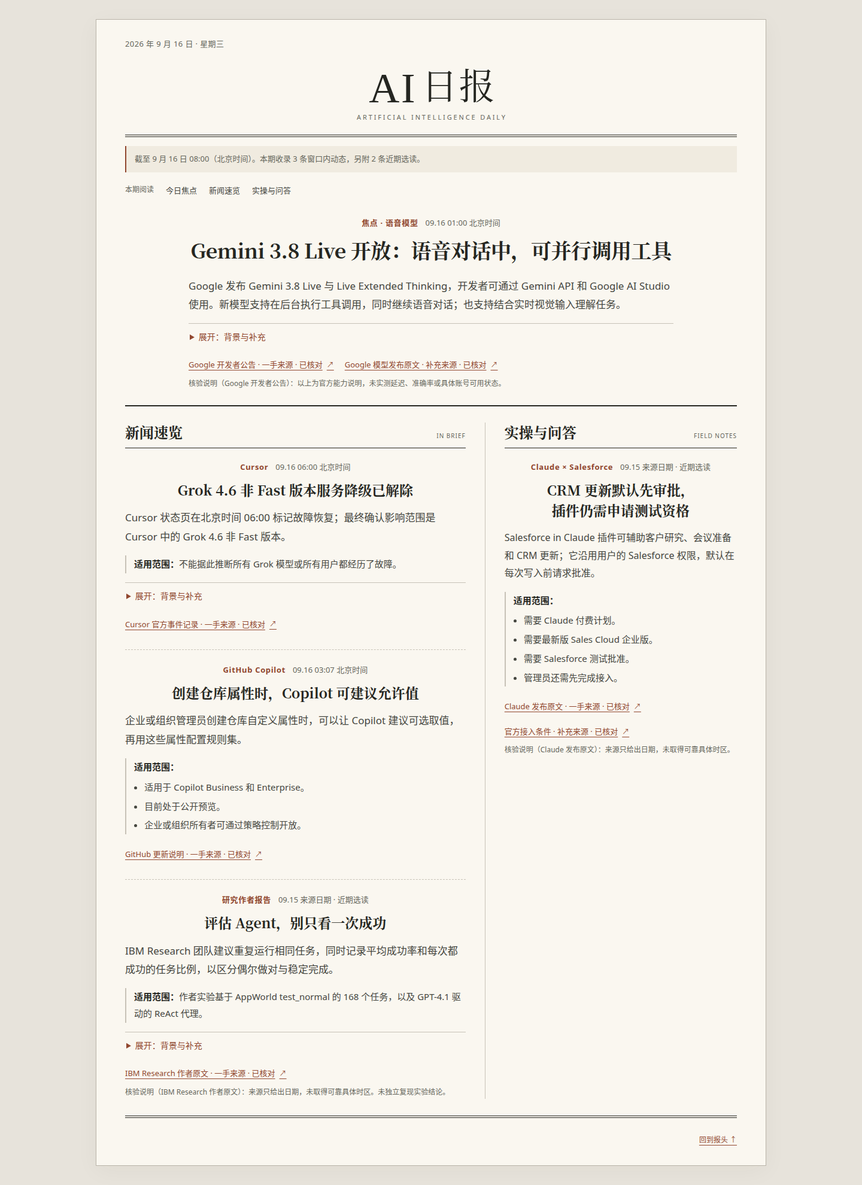
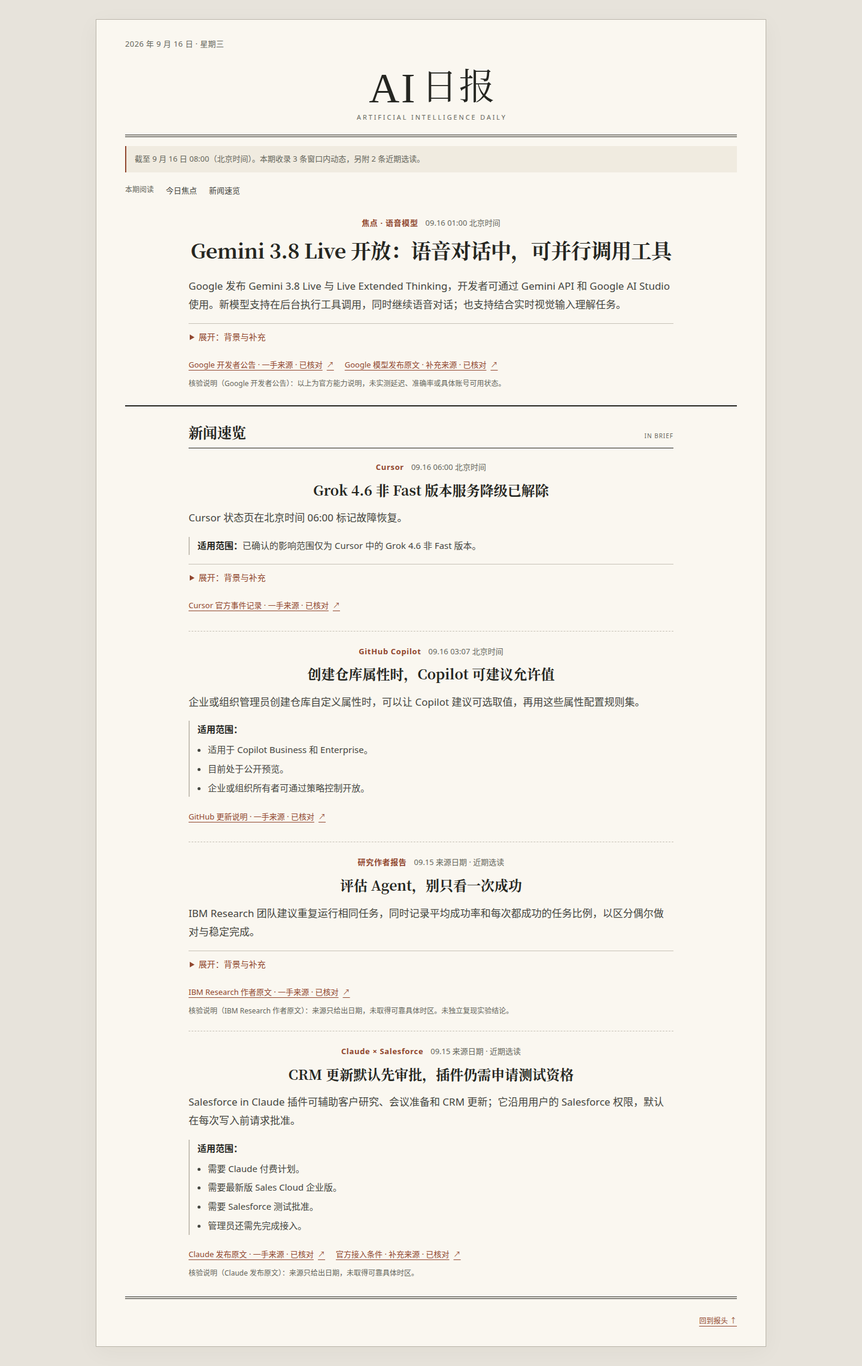
fix: restore short group text and story-only first sample
Keep 适用范围 on Web/email only. Restate the Cursor incident as
positive confirmed scope, move IBM experiment setup into
background, and reclassify Salesforce as story so an empty
实操栏 is omitted.

diff --git a/samples/2026-09-16/email.html b/samples/2026-09-16/email.html
@@ -12,7 +12,7 @@
         </tr></table>
         <div style="margin-top:8px;font-size:12px;color:#65665c;">截至 9 月 16 日 08:00（北京时间）。本期收录 3 条窗口内动态，另附 2 条近期选读。</div>
       </td></tr>
-      <tr><td style="padding:8px 32px 28px;"><section style="padding:20px 0;"><div style="font-size:12px;color:#91472f;">焦点 · 语音模型</div><h2 style="margin:5px 0 12px;font-family:'Songti SC',serif;font-size:24px;line-height:1.45;font-weight:700;color:#252621;">Gemini 3.8 Live 开放：语音对话中，可并行调用工具</h2><p style="margin:0 0 10px;">Google 发布 Gemini 3.8 Live 与 Live Extended Thinking，开发者可通过 Gemini API 和 Google AI Studio 使用。新模型支持在后台执行工具调用，同时继续语音对话；也支持结合实时视觉输入理解任务。</p><div style="margin:12px 0;color:#65665c;"><strong>背景与补充</strong><ul style="margin:6px 0 0;padding-left:20px;"><li>Live 面向兼顾成本与规模的语音交互；Extended Thinking 面向更复杂的多步任务。</li><li>同篇文章提到的 Gemini 3.5 Transcribe 在上个月已发布，本期不把它计作新事件。</li></ul></div><div style="font-size:13px;line-height:1.7;"><a href="https://blog.google/innovation-and-ai/technology/developers-tools/build-real-time-voice-applications-gemini-audio/" style="color:#91472f;">Google 开发者公告</a> · <a href="https://blog.google/innovation-and-ai/models-and-research/gemini-models/gemini-3-8-live-gemini-3-8-live-extended-thinking/" style="color:#91472f;">Google 模型发布原文</a></div><div style="margin:6px 0 0;font-size:12px;line-height:1.7;color:#65665c;">核验说明（Google 开发者公告）：以上为官方能力说明，未实测延迟、准确率或具体账号可用状态。</div></section><section style="padding:20px 0;border-top:1px solid #c7c2b7;"><div style="font-size:12px;color:#91472f;">Cursor</div><h2 style="margin:5px 0 12px;font-family:'Songti SC',serif;font-size:24px;line-height:1.45;font-weight:700;color:#252621;">Grok 4.6 非 Fast 版本服务降级已解除</h2><p style="margin:0 0 10px;">Cursor 状态页在北京时间 06:00 标记故障恢复；最终确认影响范围是 Cursor 中的 Grok 4.6 非 Fast 版本。</p><div style="margin:12px 0;padding:4px 0 4px 12px;border-left:2px solid #c7c2b7;"><strong>适用范围：</strong>不能据此推断所有 Grok 模型或所有用户都经历了故障。</div><div style="margin:12px 0;color:#65665c;"><strong>背景与补充</strong><ul style="margin:6px 0 0;padding-left:20px;"><li>05:26 开始调查，05:41 缩小影响范围，06:00 标记恢复；调查时间不等同于实际故障开始时间。</li></ul></div><div style="font-size:13px;line-height:1.7;"><a href="https://status.cursor.com/incidents/2bw21tcjqzg6" style="color:#91472f;">Cursor 官方事件记录</a></div></section><section style="padding:20px 0;border-top:1px solid #c7c2b7;"><div style="font-size:12px;color:#91472f;">GitHub Copilot</div><h2 style="margin:5px 0 12px;font-family:'Songti SC',serif;font-size:24px;line-height:1.45;font-weight:700;color:#252621;">创建仓库属性时，Copilot 可建议允许值</h2><p style="margin:0 0 10px;">企业或组织管理员创建仓库自定义属性时，可以让 Copilot 建议可选取值，再用这些属性配置规则集。</p><div style="margin:12px 0;padding:4px 0 4px 12px;border-left:2px solid #c7c2b7;"><strong>适用范围：</strong><ul style="margin:6px 0 0;padding-left:20px;"><li>适用于 Copilot Business 和 Enterprise。</li><li>目前处于公开预览。</li><li>企业或组织所有者可通过策略控制开放。</li></ul></div><div style="font-size:13px;line-height:1.7;"><a href="https://github.blog/changelog/2026-09-15-github-copilot-suggests-custom-properties-definitions/" style="color:#91472f;">GitHub 更新说明</a></div></section><section style="padding:20px 0;border-top:1px solid #c7c2b7;"><div style="font-size:12px;color:#91472f;">研究作者报告</div><h2 style="margin:5px 0 12px;font-family:'Songti SC',serif;font-size:24px;line-height:1.45;font-weight:700;color:#252621;">评估 Agent，别只看一次成功</h2><p style="margin:0 0 10px;">IBM Research 团队建议重复运行相同任务，同时记录平均成功率和每次都成功的任务比例，以区分偶尔做对与稳定完成。</p><div style="margin:12px 0;padding:4px 0 4px 12px;border-left:2px solid #c7c2b7;"><strong>适用范围：</strong>作者实验基于 AppWorld test_normal 的 168 个任务，以及 GPT-4.1 驱动的 ReAct 代理。</div><div style="margin:12px 0;color:#65665c;"><strong>背景与补充</strong><ul style="margin:6px 0 0;padding-left:20px;"><li>Mean@5 是五次运行的平均成功率，Pass⁵ 是五次全部成功的任务比例，Pass@5 则看五次中至少成功一次。</li></ul></div><div style="font-size:13px;line-height:1.7;"><a href="https://huggingface.co/blog/ibm-research/altk-evolve-consistency" style="color:#91472f;">IBM Research 作者原文</a></div><div style="margin:6px 0 0;font-size:12px;line-height:1.7;color:#65665c;">核验说明（IBM Research 作者原文）：来源只给出日期，未取得可靠具体时区。未独立复现实验结论。</div></section><section style="padding:20px 0;border-top:1px solid #c7c2b7;"><div style="font-size:12px;color:#91472f;">Claude × Salesforce</div><h2 style="margin:5px 0 12px;font-family:'Songti SC',serif;font-size:24px;line-height:1.45;font-weight:700;color:#252621;">CRM 更新默认先审批，插件仍需申请测试资格</h2><p style="margin:0 0 10px;">Salesforce in Claude 插件可辅助客户研究、会议准备和 CRM 更新；它沿用用户的 Salesforce 权限，默认在每次写入前请求批准。</p><div style="margin:12px 0;padding:4px 0 4px 12px;border-left:2px solid #c7c2b7;"><strong>适用范围：</strong><ul style="margin:6px 0 0;padding-left:20px;"><li>需要 Claude 付费计划。</li><li>需要最新版 Sales Cloud 企业版。</li><li>需要 Salesforce 测试批准。</li><li>管理员还需先完成接入。</li></ul></div><div style="font-size:13px;line-height:1.7;"><a href="https://claude.com/blog/salesforce-in-claude" style="color:#91472f;">Claude 发布原文</a> · <a href="https://support.claude.com/en/articles/16952184-set-up-salesforce-in-claude-for-your-organization" style="color:#91472f;">官方接入条件</a></div><div style="margin:6px 0 0;font-size:12px;line-height:1.7;color:#65665c;">核验说明（Claude 发布原文）：来源只给出日期，未取得可靠具体时区。</div></section></td></tr>
+      <tr><td style="padding:8px 32px 28px;"><section style="padding:20px 0;"><div style="font-size:12px;color:#91472f;">焦点 · 语音模型</div><h2 style="margin:5px 0 12px;font-family:'Songti SC',serif;font-size:24px;line-height:1.45;font-weight:700;color:#252621;">Gemini 3.8 Live 开放：语音对话中，可并行调用工具</h2><p style="margin:0 0 10px;">Google 发布 Gemini 3.8 Live 与 Live Extended Thinking，开发者可通过 Gemini API 和 Google AI Studio 使用。新模型支持在后台执行工具调用，同时继续语音对话；也支持结合实时视觉输入理解任务。</p><div style="margin:12px 0;color:#65665c;"><strong>背景与补充</strong><ul style="margin:6px 0 0;padding-left:20px;"><li>Live 面向兼顾成本与规模的语音交互；Extended Thinking 面向更复杂的多步任务。</li><li>同篇文章提到的 Gemini 3.5 Transcribe 在上个月已发布，本期不把它计作新事件。</li></ul></div><div style="font-size:13px;line-height:1.7;"><a href="https://blog.google/innovation-and-ai/technology/developers-tools/build-real-time-voice-applications-gemini-audio/" style="color:#91472f;">Google 开发者公告</a> · <a href="https://blog.google/innovation-and-ai/models-and-research/gemini-models/gemini-3-8-live-gemini-3-8-live-extended-thinking/" style="color:#91472f;">Google 模型发布原文</a></div><div style="margin:6px 0 0;font-size:12px;line-height:1.7;color:#65665c;">核验说明（Google 开发者公告）：以上为官方能力说明，未实测延迟、准确率或具体账号可用状态。</div></section><section style="padding:20px 0;border-top:1px solid #c7c2b7;"><div style="font-size:12px;color:#91472f;">Cursor</div><h2 style="margin:5px 0 12px;font-family:'Songti SC',serif;font-size:24px;line-height:1.45;font-weight:700;color:#252621;">Grok 4.6 非 Fast 版本服务降级已解除</h2><p style="margin:0 0 10px;">Cursor 状态页在北京时间 06:00 标记故障恢复。</p><div style="margin:12px 0;padding:4px 0 4px 12px;border-left:2px solid #c7c2b7;"><strong>适用范围：</strong>已确认的影响范围仅为 Cursor 中的 Grok 4.6 非 Fast 版本。</div><div style="margin:12px 0;color:#65665c;"><strong>背景与补充</strong><ul style="margin:6px 0 0;padding-left:20px;"><li>05:26 开始调查，05:41 缩小影响范围，06:00 标记恢复；调查时间不等同于实际故障开始时间。</li></ul></div><div style="font-size:13px;line-height:1.7;"><a href="https://status.cursor.com/incidents/2bw21tcjqzg6" style="color:#91472f;">Cursor 官方事件记录</a></div></section><section style="padding:20px 0;border-top:1px solid #c7c2b7;"><div style="font-size:12px;color:#91472f;">GitHub Copilot</div><h2 style="margin:5px 0 12px;font-family:'Songti SC',serif;font-size:24px;line-height:1.45;font-weight:700;color:#252621;">创建仓库属性时，Copilot 可建议允许值</h2><p style="margin:0 0 10px;">企业或组织管理员创建仓库自定义属性时，可以让 Copilot 建议可选取值，再用这些属性配置规则集。</p><div style="margin:12px 0;padding:4px 0 4px 12px;border-left:2px solid #c7c2b7;"><strong>适用范围：</strong><ul style="margin:6px 0 0;padding-left:20px;"><li>适用于 Copilot Business 和 Enterprise。</li><li>目前处于公开预览。</li><li>企业或组织所有者可通过策略控制开放。</li></ul></div><div style="font-size:13px;line-height:1.7;"><a href="https://github.blog/changelog/2026-09-15-github-copilot-suggests-custom-properties-definitions/" style="color:#91472f;">GitHub 更新说明</a></div></section><section style="padding:20px 0;border-top:1px solid #c7c2b7;"><div style="font-size:12px;color:#91472f;">研究作者报告</div><h2 style="margin:5px 0 12px;font-family:'Songti SC',serif;font-size:24px;line-height:1.45;font-weight:700;color:#252621;">评估 Agent，别只看一次成功</h2><p style="margin:0 0 10px;">IBM Research 团队建议重复运行相同任务，同时记录平均成功率和每次都成功的任务比例，以区分偶尔做对与稳定完成。</p><div style="margin:12px 0;color:#65665c;"><strong>背景与补充</strong><ul style="margin:6px 0 0;padding-left:20px;"><li>作者实验基于 AppWorld test_normal 的 168 个任务，以及 GPT-4.1 驱动的 ReAct 代理。</li><li>Mean@5 是五次运行的平均成功率，Pass⁵ 是五次全部成功的任务比例，Pass@5 则看五次中至少成功一次。</li></ul></div><div style="font-size:13px;line-height:1.7;"><a href="https://huggingface.co/blog/ibm-research/altk-evolve-consistency" style="color:#91472f;">IBM Research 作者原文</a></div><div style="margin:6px 0 0;font-size:12px;line-height:1.7;color:#65665c;">核验说明（IBM Research 作者原文）：来源只给出日期，未取得可靠具体时区。未独立复现实验结论。</div></section><section style="padding:20px 0;border-top:1px solid #c7c2b7;"><div style="font-size:12px;color:#91472f;">Claude × Salesforce</div><h2 style="margin:5px 0 12px;font-family:'Songti SC',serif;font-size:24px;line-height:1.45;font-weight:700;color:#252621;">CRM 更新默认先审批，插件仍需申请测试资格</h2><p style="margin:0 0 10px;">Salesforce in Claude 插件可辅助客户研究、会议准备和 CRM 更新；它沿用用户的 Salesforce 权限，默认在每次写入前请求批准。</p><div style="margin:12px 0;padding:4px 0 4px 12px;border-left:2px solid #c7c2b7;"><strong>适用范围：</strong><ul style="margin:6px 0 0;padding-left:20px;"><li>需要 Claude 付费计划。</li><li>需要最新版 Sales Cloud 企业版。</li><li>需要 Salesforce 测试批准。</li><li>管理员还需先完成接入。</li></ul></div><div style="font-size:13px;line-height:1.7;"><a href="https://claude.com/blog/salesforce-in-claude" style="color:#91472f;">Claude 发布原文</a> · <a href="https://support.claude.com/en/articles/16952184-set-up-salesforce-in-claude-for-your-organization" style="color:#91472f;">官方接入条件</a></div><div style="margin:6px 0 0;font-size:12px;line-height:1.7;color:#65665c;">核验说明（Claude 发布原文）：来源只给出日期，未取得可靠具体时区。</div></section></td></tr>
       <tr><td style="padding:18px 32px;border-top:1px solid #c7c2b7;font-size:12px;line-height:1.7;color:#65665c;">
         <a href="https://statefulai.github.io/ai-daily-brief/editions/2026-09-16/" style="color:#91472f;">查看网页版</a>
       </td></tr>

diff --git a/samples/2026-09-16/index.html b/samples/2026-09-16/index.html
@@ -106,8 +106,8 @@
       <div class="masthead"><h1><span class="masthead-latin">AI</span> <span class="masthead-han">日报</span></h1><p lang="en">ARTIFICIAL INTELLIGENCE DAILY</p></div>
       <p class="edition-note">截至 9 月 16 日 08:00（北京时间）。本期收录 3 条窗口内动态，另附 2 条近期选读。</p>
     </header>
-    <nav class="reading-index" aria-label="本期阅读目录"><span>本期阅读</span><a href="#event-1">今日焦点</a><a href="#news">新闻速览</a><a href="#practice">实操与问答</a></nav>
-    <main id="main" tabindex="-1"><article class="lead" id="event-1" aria-labelledby="event-1-title"><div class="kicker"><span class="tag">焦点 · 语音模型</span><time datetime="2026-09-16T01:00:00+08:00">09.16 01:00 北京时间</time></div><h2 id="event-1-title">Gemini 3.8 Live 开放：语音对话中，可并行调用工具</h2><div class="lead-copy"><p>Google 发布 Gemini 3.8 Live 与 Live Extended Thinking，开发者可通过 Gemini API 和 Google AI Studio 使用。新模型支持在后台执行工具调用，同时继续语音对话；也支持结合实时视觉输入理解任务。</p><details><summary>展开：背景与补充</summary><ul><li>Live 面向兼顾成本与规模的语音交互；Extended Thinking 面向更复杂的多步任务。</li><li>同篇文章提到的 Gemini 3.5 Transcribe 在上个月已发布，本期不把它计作新事件。</li></ul></details><div class="source"><a href="https://blog.google/innovation-and-ai/technology/developers-tools/build-real-time-voice-applications-gemini-audio/" target="_blank" rel="noopener noreferrer">Google 开发者公告 · 一手来源 · 已核对</a><a href="https://blog.google/innovation-and-ai/models-and-research/gemini-models/gemini-3-8-live-gemini-3-8-live-extended-thinking/" target="_blank" rel="noopener noreferrer">Google 模型发布原文 · 补充来源 · 已核对</a></div><p class="source-note">核验说明（Google 开发者公告）：以上为官方能力说明，未实测延迟、准确率或具体账号可用状态。</p></div></article><div class="columns"><section class="news-column" id="news" aria-labelledby="news-heading"><div class="section-heading"><h2 id="news-heading">新闻速览</h2><span lang="en">IN BRIEF</span></div><article class="story" id="event-2" aria-labelledby="event-2-title"><div class="kicker"><span class="tag">Cursor</span><time datetime="2026-09-16T06:00:00+08:00">09.16 06:00 北京时间</time></div><h3 id="event-2-title">Grok 4.6 非 Fast 版本服务降级已解除</h3><div><p>Cursor 状态页在北京时间 06:00 标记故障恢复；最终确认影响范围是 Cursor 中的 Grok 4.6 非 Fast 版本。</p><p class="condition"><strong>适用范围：</strong>不能据此推断所有 Grok 模型或所有用户都经历了故障。</p><details><summary>展开：背景与补充</summary><ul><li>05:26 开始调查，05:41 缩小影响范围，06:00 标记恢复；调查时间不等同于实际故障开始时间。</li></ul></details><div class="source"><a href="https://status.cursor.com/incidents/2bw21tcjqzg6" target="_blank" rel="noopener noreferrer">Cursor 官方事件记录 · 一手来源 · 已核对</a></div></div></article><article class="story" id="event-3" aria-labelledby="event-3-title"><div class="kicker"><span class="tag">GitHub Copilot</span><time datetime="2026-09-16T03:07:47+08:00">09.16 03:07 北京时间</time></div><h3 id="event-3-title">创建仓库属性时，Copilot 可建议允许值</h3><div><p>企业或组织管理员创建仓库自定义属性时，可以让 Copilot 建议可选取值，再用这些属性配置规则集。</p><div class="condition"><strong>适用范围：</strong><ul><li>适用于 Copilot Business 和 Enterprise。</li><li>目前处于公开预览。</li><li>企业或组织所有者可通过策略控制开放。</li></ul></div><div class="source"><a href="https://github.blog/changelog/2026-09-15-github-copilot-suggests-custom-properties-definitions/" target="_blank" rel="noopener noreferrer">GitHub 更新说明 · 一手来源 · 已核对</a></div></div></article><article class="story" id="event-4" aria-labelledby="event-4-title"><div class="kicker"><span class="tag">研究作者报告</span><time datetime="2026-09-15">09.15 来源日期 · 近期选读</time></div><h3 id="event-4-title">评估 Agent，别只看一次成功</h3><div><p>IBM Research 团队建议重复运行相同任务，同时记录平均成功率和每次都成功的任务比例，以区分偶尔做对与稳定完成。</p><p class="condition"><strong>适用范围：</strong>作者实验基于 AppWorld test_normal 的 168 个任务，以及 GPT-4.1 驱动的 ReAct 代理。</p><details><summary>展开：背景与补充</summary><ul><li>Mean@5 是五次运行的平均成功率，Pass⁵ 是五次全部成功的任务比例，Pass@5 则看五次中至少成功一次。</li></ul></details><div class="source"><a href="https://huggingface.co/blog/ibm-research/altk-evolve-consistency" target="_blank" rel="noopener noreferrer">IBM Research 作者原文 · 一手来源 · 已核对</a></div><p class="source-note">核验说明（IBM Research 作者原文）：来源只给出日期，未取得可靠具体时区。未独立复现实验结论。</p></div></article></section><aside class="desk-column" id="practice" aria-labelledby="practice-heading"><div class="section-heading"><h2 id="practice-heading">实操与问答</h2><span lang="en">FIELD NOTES</span></div><article class="desk-story" id="event-5" aria-labelledby="event-5-title"><div class="kicker"><span class="tag">Claude × Salesforce</span><time datetime="2026-09-15">09.15 来源日期 · 近期选读</time></div><h3 id="event-5-title">CRM 更新默认先审批，插件仍需申请测试资格</h3><div><p>Salesforce in Claude 插件可辅助客户研究、会议准备和 CRM 更新；它沿用用户的 Salesforce 权限，默认在每次写入前请求批准。</p><div class="condition"><strong>适用范围：</strong><ul><li>需要 Claude 付费计划。</li><li>需要最新版 Sales Cloud 企业版。</li><li>需要 Salesforce 测试批准。</li><li>管理员还需先完成接入。</li></ul></div><div class="source"><a href="https://claude.com/blog/salesforce-in-claude" target="_blank" rel="noopener noreferrer">Claude 发布原文 · 一手来源 · 已核对</a><a href="https://support.claude.com/en/articles/16952184-set-up-salesforce-in-claude-for-your-organization" target="_blank" rel="noopener noreferrer">官方接入条件 · 补充来源 · 已核对</a></div><p class="source-note">核验说明（Claude 发布原文）：来源只给出日期，未取得可靠具体时区。</p></div></article></aside></div></main>
+    <nav class="reading-index" aria-label="本期阅读目录"><span>本期阅读</span><a href="#event-1">今日焦点</a><a href="#news">新闻速览</a></nav>
+    <main id="main" tabindex="-1"><article class="lead" id="event-1" aria-labelledby="event-1-title"><div class="kicker"><span class="tag">焦点 · 语音模型</span><time datetime="2026-09-16T01:00:00+08:00">09.16 01:00 北京时间</time></div><h2 id="event-1-title">Gemini 3.8 Live 开放：语音对话中，可并行调用工具</h2><div class="lead-copy"><p>Google 发布 Gemini 3.8 Live 与 Live Extended Thinking，开发者可通过 Gemini API 和 Google AI Studio 使用。新模型支持在后台执行工具调用，同时继续语音对话；也支持结合实时视觉输入理解任务。</p><details><summary>展开：背景与补充</summary><ul><li>Live 面向兼顾成本与规模的语音交互；Extended Thinking 面向更复杂的多步任务。</li><li>同篇文章提到的 Gemini 3.5 Transcribe 在上个月已发布，本期不把它计作新事件。</li></ul></details><div class="source"><a href="https://blog.google/innovation-and-ai/technology/developers-tools/build-real-time-voice-applications-gemini-audio/" target="_blank" rel="noopener noreferrer">Google 开发者公告 · 一手来源 · 已核对</a><a href="https://blog.google/innovation-and-ai/models-and-research/gemini-models/gemini-3-8-live-gemini-3-8-live-extended-thinking/" target="_blank" rel="noopener noreferrer">Google 模型发布原文 · 补充来源 · 已核对</a></div><p class="source-note">核验说明（Google 开发者公告）：以上为官方能力说明，未实测延迟、准确率或具体账号可用状态。</p></div></article><div class="columns columns--single"><section class="news-column" id="news" aria-labelledby="news-heading"><div class="section-heading"><h2 id="news-heading">新闻速览</h2><span lang="en">IN BRIEF</span></div><article class="story" id="event-2" aria-labelledby="event-2-title"><div class="kicker"><span class="tag">Cursor</span><time datetime="2026-09-16T06:00:00+08:00">09.16 06:00 北京时间</time></div><h3 id="event-2-title">Grok 4.6 非 Fast 版本服务降级已解除</h3><div><p>Cursor 状态页在北京时间 06:00 标记故障恢复。</p><p class="condition"><strong>适用范围：</strong>已确认的影响范围仅为 Cursor 中的 Grok 4.6 非 Fast 版本。</p><details><summary>展开：背景与补充</summary><ul><li>05:26 开始调查，05:41 缩小影响范围，06:00 标记恢复；调查时间不等同于实际故障开始时间。</li></ul></details><div class="source"><a href="https://status.cursor.com/incidents/2bw21tcjqzg6" target="_blank" rel="noopener noreferrer">Cursor 官方事件记录 · 一手来源 · 已核对</a></div></div></article><article class="story" id="event-3" aria-labelledby="event-3-title"><div class="kicker"><span class="tag">GitHub Copilot</span><time datetime="2026-09-16T03:07:47+08:00">09.16 03:07 北京时间</time></div><h3 id="event-3-title">创建仓库属性时，Copilot 可建议允许值</h3><div><p>企业或组织管理员创建仓库自定义属性时，可以让 Copilot 建议可选取值，再用这些属性配置规则集。</p><div class="condition"><strong>适用范围：</strong><ul><li>适用于 Copilot Business 和 Enterprise。</li><li>目前处于公开预览。</li><li>企业或组织所有者可通过策略控制开放。</li></ul></div><div class="source"><a href="https://github.blog/changelog/2026-09-15-github-copilot-suggests-custom-properties-definitions/" target="_blank" rel="noopener noreferrer">GitHub 更新说明 · 一手来源 · 已核对</a></div></div></article><article class="story" id="event-4" aria-labelledby="event-4-title"><div class="kicker"><span class="tag">研究作者报告</span><time datetime="2026-09-15">09.15 来源日期 · 近期选读</time></div><h3 id="event-4-title">评估 Agent，别只看一次成功</h3><div><p>IBM Research 团队建议重复运行相同任务，同时记录平均成功率和每次都成功的任务比例，以区分偶尔做对与稳定完成。</p><details><summary>展开：背景与补充</summary><ul><li>作者实验基于 AppWorld test_normal 的 168 个任务，以及 GPT-4.1 驱动的 ReAct 代理。</li><li>Mean@5 是五次运行的平均成功率，Pass⁵ 是五次全部成功的任务比例，Pass@5 则看五次中至少成功一次。</li></ul></details><div class="source"><a href="https://huggingface.co/blog/ibm-research/altk-evolve-consistency" target="_blank" rel="noopener noreferrer">IBM Research 作者原文 · 一手来源 · 已核对</a></div><p class="source-note">核验说明（IBM Research 作者原文）：来源只给出日期，未取得可靠具体时区。未独立复现实验结论。</p></div></article><article class="story" id="event-5" aria-labelledby="event-5-title"><div class="kicker"><span class="tag">Claude × Salesforce</span><time datetime="2026-09-15">09.15 来源日期 · 近期选读</time></div><h3 id="event-5-title">CRM 更新默认先审批，插件仍需申请测试资格</h3><div><p>Salesforce in Claude 插件可辅助客户研究、会议准备和 CRM 更新；它沿用用户的 Salesforce 权限，默认在每次写入前请求批准。</p><div class="condition"><strong>适用范围：</strong><ul><li>需要 Claude 付费计划。</li><li>需要最新版 Sales Cloud 企业版。</li><li>需要 Salesforce 测试批准。</li><li>管理员还需先完成接入。</li></ul></div><div class="source"><a href="https://claude.com/blog/salesforce-in-claude" target="_blank" rel="noopener noreferrer">Claude 发布原文 · 一手来源 · 已核对</a><a href="https://support.claude.com/en/articles/16952184-set-up-salesforce-in-claude-for-your-organization" target="_blank" rel="noopener noreferrer">官方接入条件 · 补充来源 · 已核对</a></div><p class="source-note">核验说明（Claude 发布原文）：来源只给出日期，未取得可靠具体时区。</p></div></article></section></div></main>
     <footer class="paper-footer">
       <div class="footer-line"><a href="#top">回到报头 ↑</a></div>
     </footer>

diff --git a/samples/2026-09-16/dogfood.html b/samples/2026-09-16/dogfood.html
@@ -12,11 +12,6 @@ nav{display:flex;flex-wrap:wrap;gap:10px 20px;margin:0 0 24px} a{color:#91472f} 
 <h2>群文字预览</h2><pre>【AI 日报｜2026-09-16】
 • Gemini 3.8 Live 开放：语音对话中，可并行调用工具
 • Grok 4.6 非 Fast 版本服务降级已解除
-适用范围：不能据此推断所有 Grok 模型或所有用户都经历了故障。
 • 创建仓库属性时，Copilot 可建议允许值
-适用范围：
-适用于 Copilot Business 和 Enterprise。
-目前处于公开预览。
-企业或组织所有者可通过策略控制开放。
 另有 2 条，详见网页版。
 网页版：https://statefulai.github.io/ai-daily-brief/editions/2026-09-16/</pre></main></body></html>

diff --git a/tests/test_render.py b/tests/test_render.py
@@ -111,13 +111,26 @@ class RenderTest(unittest.TestCase):
         self.assertNotIn("sha256:", email_html)
         self.assertIn("网页版：https://example.com/editions/2026-09-16/", email_text)
         self.assertIn("适用范围：仅适用于已开放账号。", email_text)
-        self.assertIn("适用范围：仅适用于已开放账号。", group)
+        self.assertIn('<p class="condition"><strong>适用范围：</strong>仅适用于已开放账号。</p>', render_web_edition(document))
+        self.assertIn("<strong>适用范围：</strong>仅适用于已开放账号。", email_html)
+        self.assertNotIn("适用范围", group)
         self.assertNotIn("适用条件：", email_html)
         self.assertNotIn("适用条件：", email_text)
         self.assertNotIn("适用条件：", group)
         self.assertNotIn("。；", email_html)
         self.assertNotIn("。；", email_text)
         self.assertIn("另有 1 条，详见网页版。", group)
+        self.assertEqual(
+            group.splitlines(),
+            [
+                "【AI 日报｜2026-09-16】",
+                "• 第 1 条新闻 <script>alert(1)</script>",
+                "• 第 2 条新闻 <script>alert(1)</script>",
+                "• 第 3 条新闻 <script>alert(1)</script>",
+                "另有 1 条，详见网页版。",
+                "网页版：https://example.com/editions/2026-09-16/",
+            ],
+        )
         self.assertNotIn("<img", email_html)
         self.assertNotIn("附件", email_html)
 
@@ -155,7 +168,16 @@ class RenderTest(unittest.TestCase):
                 "核验说明（官方来源）：仅确认到日期。",
             ],
         )
-        self.assertIn("适用范围：\n适用于付费计划。\n目前处于公开预览。", group)
+        self.assertNotIn("适用范围", group)
+        self.assertNotIn("适用条件：", group)
+        self.assertEqual(
+            group.splitlines()[:3],
+            [
+                "【AI 日报｜2026-09-16】",
+                "• 第 1 条新闻 <script>alert(1)</script>",
+                "网页版：https://example.com/editions/2026-09-16/",
+            ],
+        )
         self.assertNotIn("。；", html)
         self.assertNotIn("。；", email_html)
         self.assertNotIn("。；", email_text)

diff --git a/outputs.py b/outputs.py
@@ -305,8 +305,6 @@ def render_group_message(document: dict, public_url: str, max_items: int = 3) ->
     lines = [f"【AI 日报｜{edition['edition_id']}】"]
     for event in edition["events"][:max_items]:
         lines.append(f"• {event['title']}")
-        for item in _ranges_plain_lines(event):
-            lines.append(item)
     remaining = len(edition["events"]) - max_items
     if remaining > 0:
         lines.append(f"另有 {remaining} 条，详见网页版。")

diff --git a/samples/2026-09-16/review.md b/samples/2026-09-16/review.md
@@ -36,8 +36,8 @@
 | Gemini 3.8 Live | [Google 开发者公告](https://blog.google/innovation-and-ai/technology/developers-tools/build-real-time-voice-applications-gemini-audio/) 的 JSON-LD `datePublished` 及 `published_time` 为 `2026-09-15T17:00:00+00:00`，即北京时间 09-16 01:00 | 通栏焦点。与[模型发布文章](https://blog.google/innovation-and-ai/models-and-research/gemini-models/gemini-3-8-live-gemini-3-8-live-extended-thinking/)合并为一个事件；不把上月发布的 Transcribe 算作本次新增。未采用榜单优胜或性能营销结论。 |
 | GitHub 仓库属性建议 | [GitHub 原文](https://github.blog/changelog/2026-09-15-github-copilot-suggests-custom-properties-definitions/) JSON-LD 给出 `2026-09-15T19:07:47+00:00`，另有等价 `12:07:47-07:00`，即北京时间 09-16 03:07:47 | 工具短条。保留 Business/Enterprise 与公开预览限制，不写成全量开放。 |
 | Cursor 服务恢复 | [官方事件页](https://status.cursor.com/incidents/2bw21tcjqzg6) 明确记录 09-15 21:26、21:41、22:00 UTC；对应北京时间 09-16 05:26、05:41、06:00 | 服务短条。以最终的非 Fast 影响范围表述，保留中途调查记录；不把调查时间当实际故障起点。 |
-| Agent 一致性评估 | [IBM Research 作者文章](https://huggingface.co/blog/ibm-research/altk-evolve-consistency) 标注 September 15, 2026；未取得可靠具体时区 | 新闻速览近期选读，不计入上面的 3 条。作者实验结果与编辑建议分开；实验设置放适用范围，未复现说明放来源核验。 |
-| Salesforce in Claude | [发布文章](https://claude.com/blog/salesforce-in-claude)只给 Sep 15, 2026；[接入指南](https://support.claude.com/en/articles/16952184-set-up-salesforce-in-claude-for-your-organization)补充资格条件 | 近期工作流，不计入窗口内事件。付费、企业版、申请与默认审批条件均直接可见。 |
+| Agent 一致性评估 | [IBM Research 作者文章](https://huggingface.co/blog/ibm-research/altk-evolve-consistency) 标注 September 15, 2026；未取得可靠具体时区 | 新闻速览近期选读，不计入上面的 3 条。作者实验结果与编辑建议分开；实验设置放背景，未复现说明放来源核验。 |
+| Salesforce in Claude | [发布文章](https://claude.com/blog/salesforce-in-claude)只给 Sep 15, 2026；[接入指南](https://support.claude.com/en/articles/16952184-set-up-salesforce-in-claude-for-your-organization)补充资格条件 | 新闻速览近期选读，不计入窗口内事件。付费、企业版、申请与默认审批条件均直接可见；本期无合格实操作，省略该栏。 |
 
 正文和日期核验使用官方网页及其公开元数据，时区转换另用标准库复核。只凭页面显示“9 月 15 日”既不能判定过期，也不能断言属于北京时间近 24 小时。
 
@@ -51,10 +51,10 @@ Chrome 153.0.8010.47，已有 Playwright 1.63.0，通过 file:// 渲染；未安
 | --- | --- | --- |
 | 390 | 单栏 | 页面随内容自然增高，无横向溢出 |
 | 680 | 单栏 | 页面随内容自然增高，无横向溢出 |
-| 681 | 双栏 | 页面随内容自然增高，无横向溢出 |
-| 1440 | 双栏 | 页面随内容自然增高，无横向溢出 |
+| 681 | 单栏 | 本期无实操作，副栏省略；页面随内容自然增高，无横向溢出 |
+| 1440 | 单栏 | 本期无实操作，副栏省略；页面随内容自然增高，无横向溢出 |
 
-以上为当前 schema 驱动样稿的复验结果。三处背景可展开；目录包含焦点、新闻速览和实操问答三个锚点。适用范围与来源不随折叠隐藏。桌面与手机截图已重新生成并实际查看。页面不依赖脚本、字体下载或其他外部资源。
+以上为当前 schema 驱动样稿的复验结果。三处背景可展开；目录包含焦点和新闻速览两个锚点。适用范围与来源不随折叠隐藏。桌面与手机截图已重新生成并实际查看。页面不依赖脚本、字体下载或其他外部资源。
 
 报头修正前，另在临时浏览器 DOM 中做了短稿和长稿容量检查：短稿只保留焦点，长稿追加 10 个明确标注“非新闻”的布局占位。390/1440 两种宽度均无横向溢出；长稿在手机达到 6134px。这证明布局能容纳更多条目，也说明“技术上放得下”不能替代二次选稿。占位未写入交付 HTML，截图与实际文章没有虚构新闻。
 
